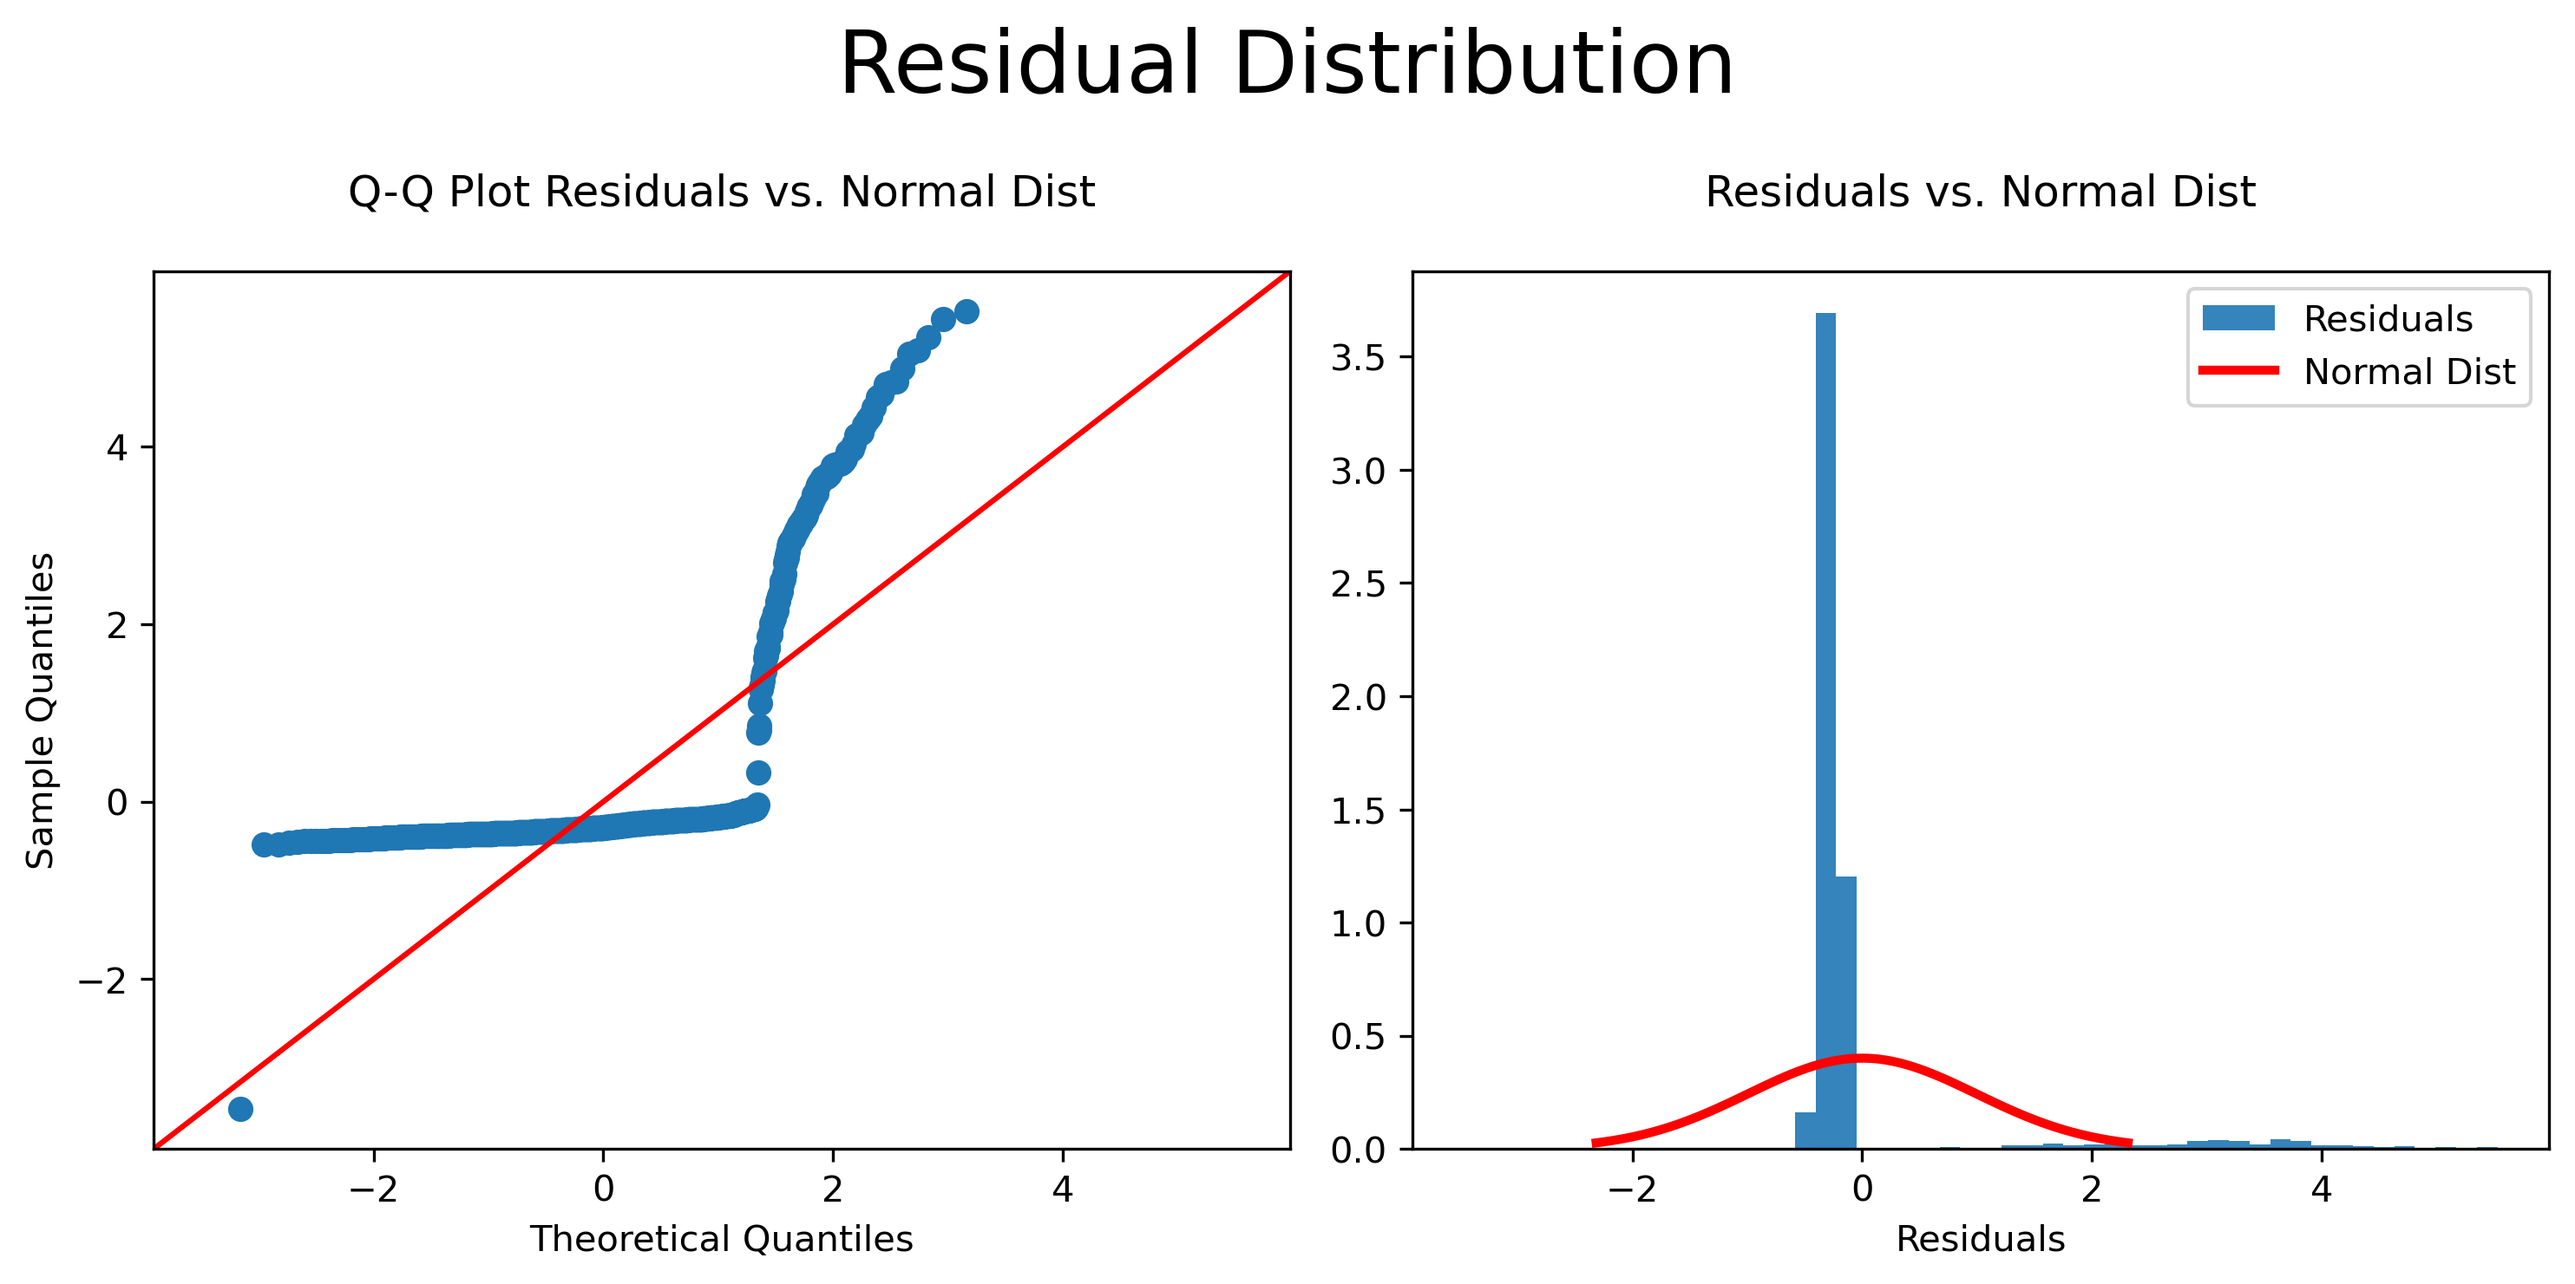
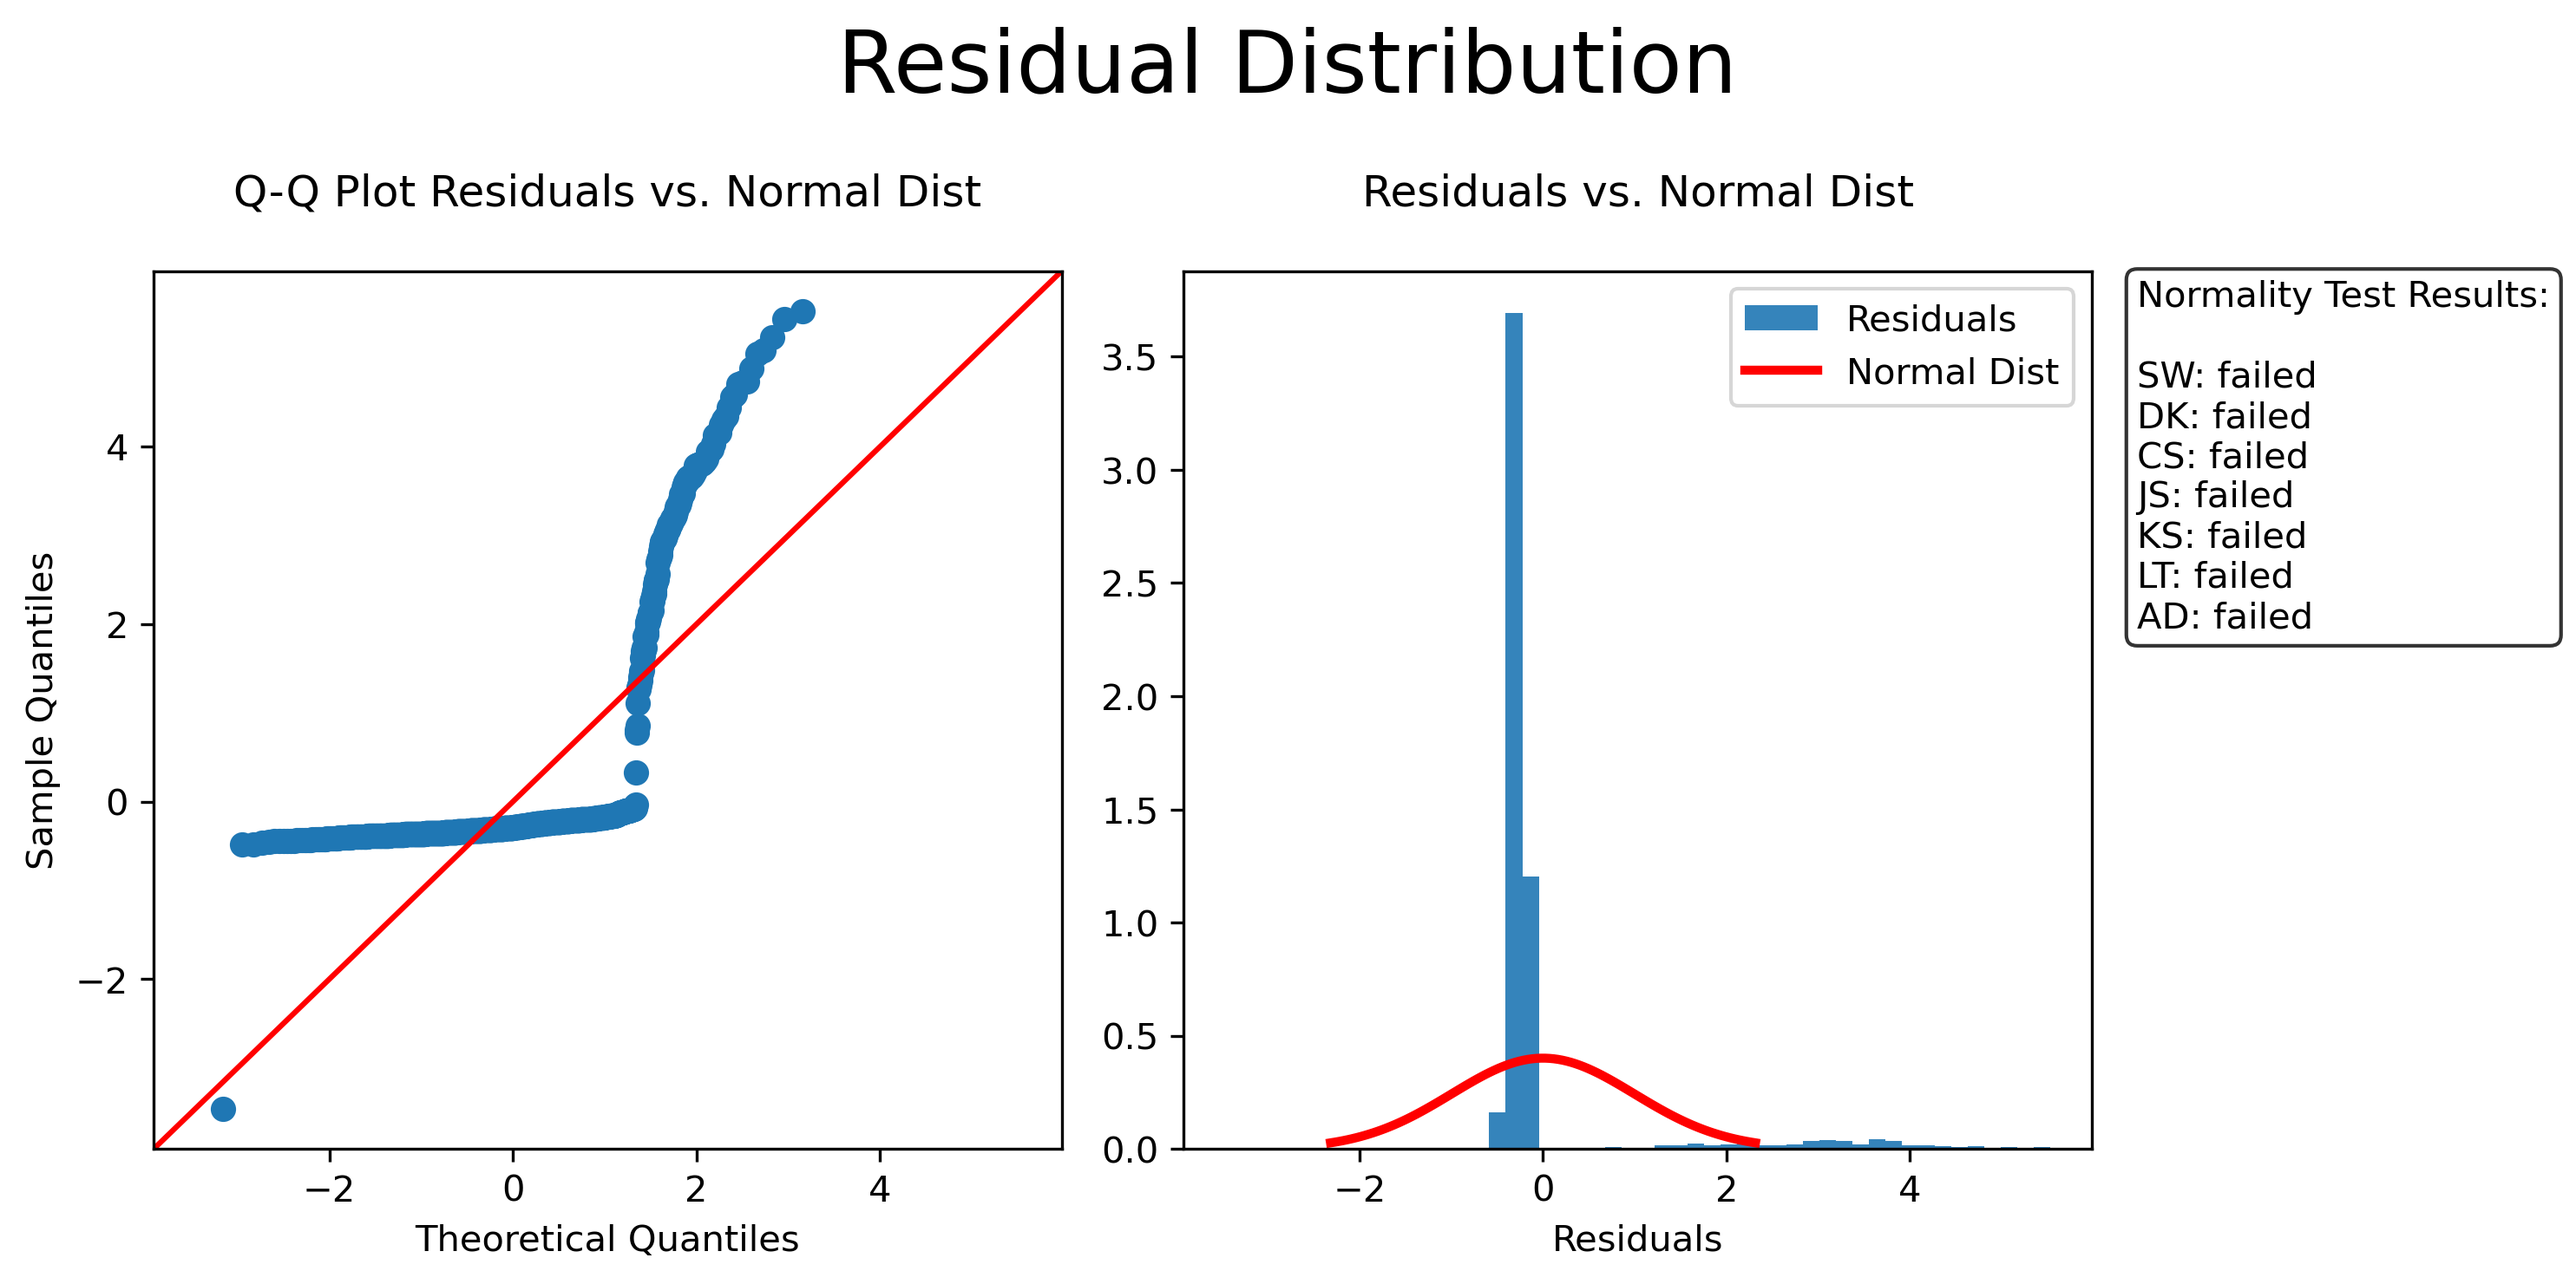
new methods

diff --git a/cost_modeling.py b/cost_modeling.py
@@ -1116,7 +1116,7 @@ def my_qq(data, my_data_str='Residuals', dist_obj=stats.norm, fit_params=None, d
 
 # Plots a scipy distribution vs. histogram of my_data
 def hist_vs_dist_plot(my_data, my_data_str='Residuals', dist_obj=stats.norm, fit_params=None, dist_str='Normal Dist', 
-                      bins=200, ax=None, save_img=False, img_filename=None):    
+                      bins=200, ax=None, test_interp_str=None, save_img=False, img_filename=None):    
     
     if not fit_params:
         # Fit my data to dist_obj and get fit parameters
@@ -1143,6 +1143,13 @@ def hist_vs_dist_plot(my_data, my_data_str='Residuals', dist_obj=stats.norm, fit
     ax.plot(x, rv.pdf(x), 'r-', lw=2.5, alpha=1, label=dist_str)
     ax.set_title(f'{my_data_str} vs. {dist_str}', y=1.05)
     ax.set_xlabel(f'{my_data_str}')
+    
+    if test_interp_str:
+        # Add normality test interpretation text
+        box_style = {'facecolor':'white', 'boxstyle':'round', 'alpha':0.8}
+        ax.text(1.05, 0.99, test_interp_str, bbox=box_style, transform=ax.transAxes, verticalalignment='top', horizontalalignment='left') 
+    
+    
     ax.legend()
     
     if save_img:
@@ -1150,7 +1157,7 @@ def hist_vs_dist_plot(my_data, my_data_str='Residuals', dist_obj=stats.norm, fit
 
 # Plot both qq and hist vs. dist plots in same figure
 def plot_qq_hist_dist_combined(my_data, my_data_str='Residuals', dist_obj=stats.norm, dist_str='Normal Dist', 
-                               bins=50, fig_title=None, title_fontsize = 24, figsize=(10, 5), save_img=False, img_filename=None):
+                               bins=50, test_interp_str=None, fig_title=None, title_fontsize = 24, figsize=(10, 5), save_img=False, img_filename=None):
     
     # Create figure, gridspec, list of axes/subplots mapped to gridspec location
     fig, gs, ax_array_flat = dh.initialize_fig_gs_ax(num_rows=1, num_cols=2, figsize=figsize)
@@ -1164,7 +1171,7 @@ def plot_qq_hist_dist_combined(my_data, my_data_str='Residuals', dist_obj=stats.
     
     # Plot hist vs. dist, add to figure
     hist_vs_dist_plot(my_data, my_data_str=my_data_str, dist_obj=dist_obj, fit_params=fit_params, 
-                      dist_str=dist_str, bins=bins, ax=ax_array_flat[1])
+                      dist_str=dist_str, bins=bins, ax=ax_array_flat[1], test_interp_str=test_interp_str)
     
     # Figure title
     if fig_title:
@@ -1178,16 +1185,14 @@ def plot_qq_hist_dist_combined(my_data, my_data_str='Residuals', dist_obj=stats.
     plt.show()
 
 
+
 # ==========================================================
-# Before removing Cook's outliers
+# Test for normality before removing Cook's outliers
 # ==========================================================
 
 resid4 = sm_lin_reg_4.resid_pearson
 #resid4 = sm_lin_reg_4.resid
 #resid4 = sm_lin_reg_4.get_influence().resid_studentized_internal
-
-# Q-Q plot and Residual Histogram vs. Normal
-plot_qq_hist_dist_combined(resid4, fig_title='Residual Dist Before Outlier Removal')
 
 # =============================
 # Statistical test for normality
@@ -1223,33 +1228,92 @@ ks_stat_cutoff = 1.36 / np.sqrt(len(dataset['charges'])) # = (1.36 / sqrt(1338))
 lt_stat4, lt_pval4 = lilliefors(sm_lin_reg_4.resid_pearson, dist='norm')
 
 # Function combining above normaly tests and interpreting results
-normal_results4, normal_interpret4 = dh.normality_tests(sm_lin_reg_4.resid_pearson)
+normal_results4, normal_interpret4, nml_interpret_txt4 = dh.normality_tests(resid4)
+
+# Q-Q plot and Residual Histogram vs. Normal
+plot_qq_hist_dist_combined(resid4, fig_title='Residual Distribution', test_interp_str=nml_interpret_txt4, save_img=True, img_filename='resid_dist')
 
 # ==========================================================
-# After removing Cook's outliers first time
+# Test for normality after removing Cook's outliers first time
 # ==========================================================
 resid5 = sm_lin_reg_5.resid_pearson
 #resid5 = sm_lin_reg_5.resid
 #resid5 = sm_lin_reg_5.get_influence().resid_studentized_internal
 
-# Q-Q plot and Residual Histogram vs. Normal
-plot_qq_hist_dist_combined(resid5, fig_title='Residual Dist After Outlier Removal')
-
 # Function combining normality tests and interpreting results
-normal_results5, normal_interpret5 = dh.normality_tests(sm_lin_reg_5.resid_pearson)
+normal_results5, normal_interpret5, nml_interpret_txt5 = dh.normality_tests(resid5)
+
+# Q-Q plot and Residual Histogram vs. Normal
+plot_qq_hist_dist_combined(resid5, fig_title='Residual Dist After Outlier Removal',  test_interp_str=nml_interpret_txt5)
+
 
 # ==========================================================
-# After removing Cook's outliers second time
+# Test for normality after removing Cook's outliers second time
 # ==========================================================
 resid6 = sm_lin_reg_6.resid_pearson
 #resid6 = sm_lin_reg_6.resid
 #resid6 = sm_lin_reg_6.get_influence().resid_studentized_internal
 
+# Function combining normality tests and interpreting results
+normal_results6, normal_interpret6, nml_interpret_txt6 = dh.normality_tests(resid6)
+
 # Q-Q plot and Residual Histogram vs. Normal
-plot_qq_hist_dist_combined(resid6, fig_title='Residual Dist After Outlier Removal x2')
+plot_qq_hist_dist_combined(resid6, fig_title='Residual Dist After Outlier Removal x2',  test_interp_str=nml_interpret_txt6)
+
+
+# ==========================================================
+# Try applying nonlinear transformations to variables rather than outlier removal
+# Independent variables are already close to normal or uniform distributions
+# ==========================================================
+
+# New dataset
+new_X_7 = new_X_4.copy()
+
+# Plot distribution of 'age^2'
+sns.kdeplot(x=y, shade=True)#, alpha=alpha, label=category)
+plt.hist(y, bins=50, density=True)#, histtype='stepfilled', alpha=0.9)#, label=my_data_str)
+
+# Boxcox 'charges'
+y_bc, lambd = stats.boxcox(y)
+
+# Plot distribution of 'charges' boxcox transformed
+sns.kdeplot(x=y_bc, shade=True)#, alpha=alpha, label=category)
+plt.hist(y_bc, bins=50, density=True)#, histtype='stepfilled', alpha=0.9)#, label=my_data_str)
+
+# Plot model
+title_7 = 'box-cox charges'
+model_name_7 = 'normalized [charges]'
+file_name_7 = '7_bc_charges'
+sm_lin_reg_7, sm_y_pred_7, het_results_7 = fit_lr_model_results_subgrouped(new_X_7, y_bc, title_7, save_img=False, filename_unique=file_name_7)
+
+# Q-Q plot and Residual Histogram vs. Normal
+plot_qq_hist_dist_combined(sm_lin_reg_7.resid_pearson, fig_title='Residual Dist After Normalizing Target')
 
 # Function combining normality tests and interpreting results
-normal_results6, normal_interpret6 = dh.normality_tests(sm_lin_reg_6.resid_pearson)
+normal_results7, normal_interpret7 = dh.normality_tests(sm_lin_reg_7.resid_pearson)
+
+
+# Organize model performance metrics
+summary_df_4 = sm_results_to_df(sm_lin_reg_4.summary())
+coeff_4 = pd.Series(summary_df_4['coef'], name=model_name_4)
+sm_lr_results_4 = pd.Series(evaluate_model_sm(y, sm_y_pred_4, sm_lin_reg_4), name=model_name_4)
+
+# Keep track of model performance for comparison later
+coeff_df = pd.concat([coeff_df, coeff_4], axis=1)
+sm_results_df = pd.concat([sm_results_df, sm_lr_results_4], axis=1)
+
+
+
+
+
+
+
+
+
+
+
+
+
 
 
 # ====================================================================================================================
